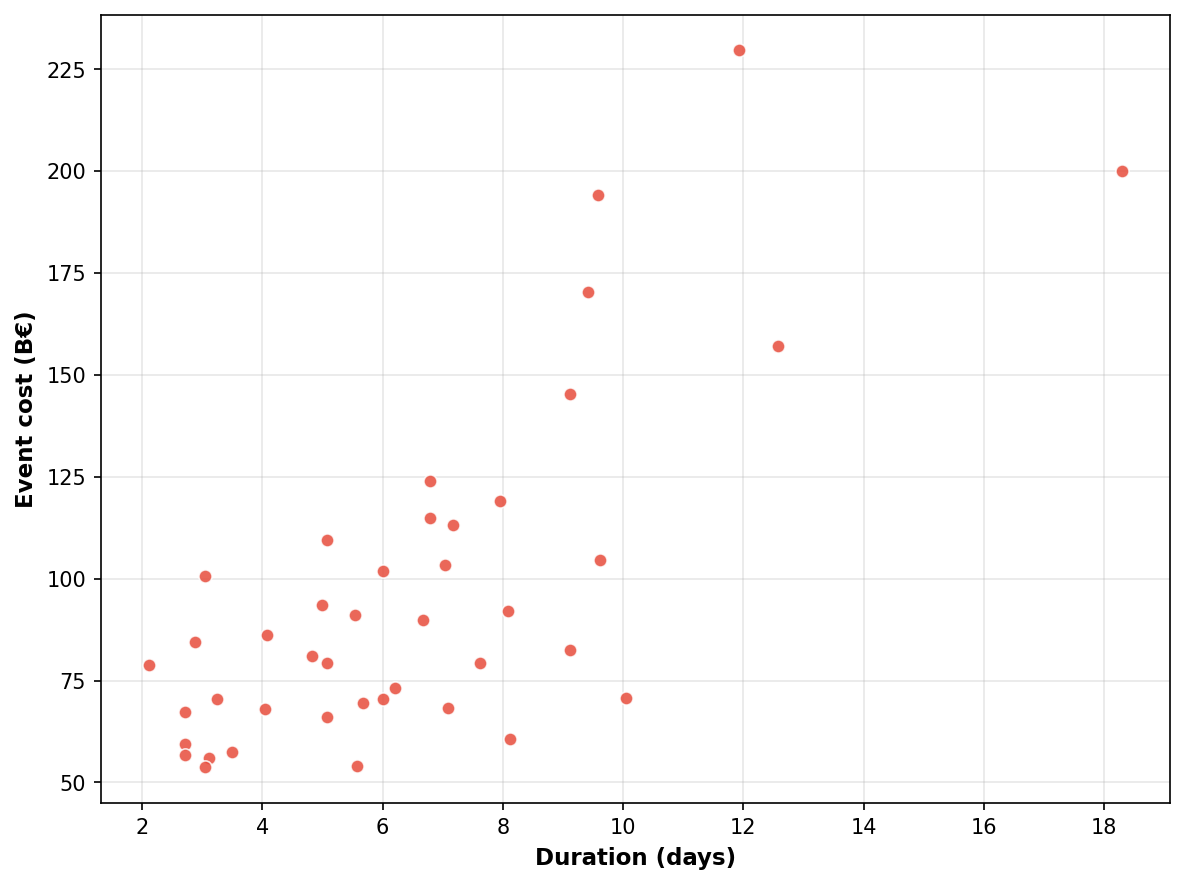
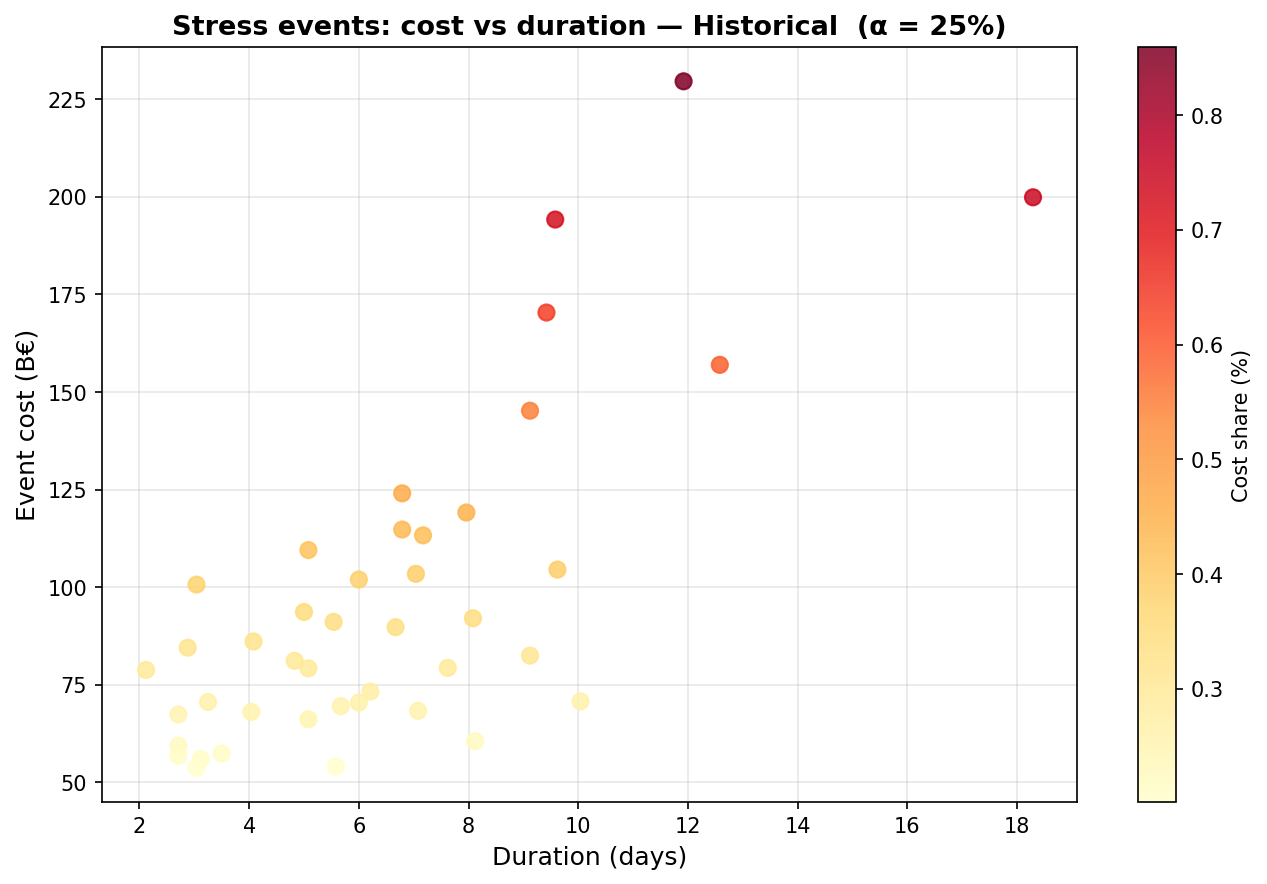
Add plot_ratio_analysis, plot_cost_duration_scatter, combined filter scatter; remove orphaned ratio_analysis.png

diff --git a/analysis/codigos/compute/plot_ratio_analysis.py b/analysis/codigos/compute/plot_ratio_analysis.py
@@ -1,0 +1,126 @@
+"""
+Ratio Analysis — Static PNGs
+==============================
+Generates one PNG per dataset showing how the intensity ratio
+ρ = cost_share / duration (% per day) evolves across α thresholds for the
+top-10 most persistent stress events. Mirrors the content of ratio_analysis.html.
+
+An event is "persistent" if it appears in the top-10 by cost_share_cross
+across the most α thresholds. Events are identified by (sc, t_start, t_end).
+
+Inputs:
+  CSVs/future/events_global_alpha/events_global_alpha{10..40}.csv
+  CSVs/historical/events_global_alpha/events_global_historical_alpha{10..40}.csv
+
+Outputs:
+  analysis/fotos/future/ratio_analysis_future.png
+  analysis/fotos/historical/ratio_analysis_historical.png
+"""
+
+# ── Configuration ─────────────────────────────────────────────────────────────
+ALPHAS  = [10, 15, 20, 25, 30, 35, 40]
+TOP_N   = 10
+OUT_DIR = '~/Desktop/Bachelor Thesis/analysis/fotos'
+DATASETS = {
+    'future': {
+        'label': 'Future',
+        'csv': lambda a: f'~/Desktop/Bachelor Thesis/CSVs/future/events_global_alpha/events_global_alpha{a:02d}.csv',
+    },
+    'historical': {
+        'label': 'Historical',
+        'csv': lambda a: f'~/Desktop/Bachelor Thesis/CSVs/historical/events_global_alpha/events_global_historical_alpha{a:02d}.csv',
+    },
+}
+COLORS = ['#3498db','#e74c3c','#2ecc71','#9b59b6','#f39c12',
+          '#1abc9c','#e67e22','#34495e','#e91e63','#00bcd4']
+# ──────────────────────────────────────────────────────────────────────────────
+
+import os
+import numpy as np
+import pandas as pd
+import matplotlib
+matplotlib.use('Agg')
+import matplotlib.pyplot as plt
+
+OUT_DIR = os.path.expanduser(OUT_DIR)
+
+
+def load_dfs(cfg):
+    return {a: pd.read_csv(os.path.expanduser(cfg['csv'](a))) for a in ALPHAS}
+
+
+def find_persistent(dfs):
+    top_per = {a: dfs[a].nlargest(TOP_N, 'cost_share_cross') for a in ALPHAS}
+    pool = []
+    for alpha in ALPHAS:
+        for _, row in top_per[alpha].iterrows():
+            sc, ts, te = int(row['sc']), int(row['t_start']), int(row['t_end'])
+            if not any(e['sc'] == sc and
+                       ((e['ts'] <= ts and e['te'] >= te) or
+                        (ts <= e['ts'] and te >= e['te']))
+                       for e in pool):
+                pool.append({'sc': sc, 'ts': ts, 'te': te})
+    for ev in pool:
+        ev['persistence'] = sum(
+            1 for a in ALPHAS
+            if len(top_per[a][(top_per[a]['sc'] == ev['sc']) &
+                               (top_per[a]['t_start'] <= ev['ts']) &
+                               (top_per[a]['t_end']   >= ev['te'])]) > 0
+        )
+    pool.sort(key=lambda x: x['persistence'], reverse=True)
+    return pool[:TOP_N]
+
+
+def compute_rho(pool, dfs):
+    events = []
+    for ev in pool:
+        sc, ts0, te0 = ev['sc'], ev['ts'], ev['te']
+        rho_vals = []
+        for a in ALPHAS:
+            m = dfs[a][(dfs[a]['sc'] == sc) &
+                       (dfs[a]['t_start'] <= te0) &
+                       (dfs[a]['t_end']   >= ts0)]
+            if len(m) > 0:
+                cs  = float(m.iloc[0]['cost_share_cross'])
+                dur = float(m.iloc[0]['duration_days'])
+                rho_vals.append(cs / dur if dur > 0 else np.nan)
+            else:
+                rho_vals.append(np.nan)
+        events.append({'label': f'sc{sc}', 'rho': rho_vals,
+                       'persistence': ev['persistence']})
+    return events
+
+
+for ds_key, cfg in DATASETS.items():
+    dfs    = load_dfs(cfg)
+    pool   = find_persistent(dfs)
+    events = compute_rho(pool, dfs)
+
+    fig, ax = plt.subplots(figsize=(10, 6))
+
+    for i, ev in enumerate(events):
+        rho = ev['rho']
+        valid = [(a, r) for a, r in zip(ALPHAS, rho) if not np.isnan(r)]
+        if not valid:
+            continue
+        xs, ys = zip(*valid)
+        ax.plot(xs, ys, marker='o', color=COLORS[i % len(COLORS)],
+                linewidth=2, markersize=6,
+                label=f'{ev["label"]}  (persist={ev["persistence"]})')
+
+    ax.set_xlabel('α threshold (%)', fontsize=12)
+    ax.set_ylabel('ρ = cost share / duration  (% per day)', fontsize=12)
+    ax.set_title(f'Intensity ratio ρ vs α — {cfg["label"]}', fontsize=13,
+                 fontweight='bold')
+    ax.set_xticks(ALPHAS)
+    ax.grid(True, alpha=0.3)
+    ax.legend(fontsize=9, frameon=True, loc='upper right',
+              ncol=2 if len(events) > 6 else 1)
+
+    fig.tight_layout()
+    out = os.path.join(OUT_DIR, ds_key, f'ratio_analysis_{ds_key}.png')
+    fig.savefig(out, dpi=150, bbox_inches='tight')
+    plt.close()
+    print(f'Saved: {out}')
+
+print('\nDone.')

diff --git a/analysis/codigos/compute/plot_cost_duration_scatter.py b/analysis/codigos/compute/plot_cost_duration_scatter.py
@@ -1,0 +1,71 @@
+"""
+Cost vs Duration Scatter — Static PNGs per Dataset
+====================================================
+Generates one scatter plot per dataset showing event_cost vs duration_days
+for all stress events passing the standard quality filters at α = 25%.
+Points are colored by cost_share_cross (%).
+
+Inputs:
+  CSVs/future/events_global_alpha/events_global_alpha25.csv
+  CSVs/historical/events_global_alpha/events_global_historical_alpha25.csv
+
+Outputs:
+  analysis/fotos/future/scatter_plots/cost_duration_scatter_future.png
+  analysis/fotos/historical/scatter_plots/cost_duration_scatter_historical.png
+"""
+
+# ── Configuration ─────────────────────────────────────────────────────────────
+THRESH_CS  = 0.2
+THRESH_DUR = 1.0
+OUT_DIR    = '~/Desktop/Bachelor Thesis/analysis/fotos'
+DATASETS = {
+    'future': {
+        'label': 'Future',
+        'csv':   '~/Desktop/Bachelor Thesis/CSVs/future/events_global_alpha/events_global_alpha25.csv',
+        'color': '#3498db',
+    },
+    'historical': {
+        'label': 'Historical',
+        'csv':   '~/Desktop/Bachelor Thesis/CSVs/historical/events_global_alpha/events_global_historical_alpha25.csv',
+        'color': '#e74c3c',
+    },
+}
+# ──────────────────────────────────────────────────────────────────────────────
+
+import os
+import pandas as pd
+import matplotlib
+matplotlib.use('Agg')
+import matplotlib.pyplot as plt
+import matplotlib.colors as mcolors
+
+OUT_DIR = os.path.expanduser(OUT_DIR)
+
+for ds_key, cfg in DATASETS.items():
+    df = pd.read_csv(os.path.expanduser(cfg['csv']))
+    df = df[(df['cost_share_cross'] >= THRESH_CS) & (df['duration_days'] >= THRESH_DUR)]
+
+    fig, ax = plt.subplots(figsize=(9, 6))
+
+    sc = ax.scatter(df['duration_days'], df['event_cost'] / 1e3,
+                    c=df['cost_share_cross'], cmap='YlOrRd',
+                    s=60, alpha=0.85, zorder=3,
+                    norm=mcolors.Normalize(vmin=df['cost_share_cross'].min(),
+                                           vmax=df['cost_share_cross'].max()))
+    cb = fig.colorbar(sc, ax=ax)
+    cb.set_label('Cost share (%)', fontsize=10)
+
+    ax.set_xlabel('Duration (days)', fontsize=12)
+    ax.set_ylabel('Event cost (B€)', fontsize=12)
+    ax.set_title(f'Stress events: cost vs duration — {cfg["label"]}  (α = 25%)',
+                 fontsize=13, fontweight='bold')
+    ax.grid(True, alpha=0.3)
+
+    fig.tight_layout()
+    out = os.path.join(OUT_DIR, ds_key, 'scatter_plots',
+                       f'cost_duration_scatter_{ds_key}.png')
+    fig.savefig(out, dpi=150, bbox_inches='tight')
+    plt.close()
+    print(f'Saved: {out}')
+
+print('\nDone.')

diff --git a/analysis/codigos/compute/plot_filter_scatter.py b/analysis/codigos/compute/plot_filter_scatter.py
@@ -14,7 +14,9 @@ Inputs:
 
 Outputs:
   htmls/fotos/future/scatter_plots/filter_scatter_future_alpha{XX}.png      (7 PNGs)
+  htmls/fotos/future/scatter_plots/filter_scatter_future.png                (1 combined grid)
   htmls/fotos/historical/scatter_plots/filter_scatter_historical_alpha{XX}.png  (7 PNGs)
+  htmls/fotos/historical/scatter_plots/filter_scatter_historical.png             (1 combined grid)
 """
 
 # ── Configuration ─────────────────────────────────────────────────────────────
@@ -91,5 +93,39 @@ for ds_name, paths in DATASETS.items():
         fig.savefig(out, dpi=150, bbox_inches='tight')
         plt.close()
         print(f'Saved: {out}')
+
+# ── Combined grid: all α values in one figure per dataset ────────────────────
+for ds_name, paths in DATASETS.items():
+    fig, axes = plt.subplots(2, 4, figsize=(20, 10))
+    axes_flat = axes.ravel()
+
+    for i, alpha in enumerate(ALPHAS):
+        ax = axes_flat[i]
+        df = pd.read_csv(paths[alpha])
+        passed = (df['cost_share_cross'] >= THRESH_CS) & (df['duration_days'] >= THRESH_DUR)
+        pct = passed.sum() / len(df) * 100
+
+        ax.scatter(df.loc[~passed, 'duration_days'], df.loc[~passed, 'cost_share_cross'],
+                   color=COLOR_FAIL, s=12, alpha=0.7, zorder=2)
+        ax.scatter(df.loc[passed,  'duration_days'], df.loc[passed,  'cost_share_cross'],
+                   color=COLOR_PASS, s=12, alpha=0.9, zorder=3)
+        ax.axvline(THRESH_DUR, color='firebrick', linewidth=1.2, linestyle='--')
+        ax.axhline(THRESH_CS,  color='steelblue', linewidth=1.2, linestyle='--')
+        ax.set_title(f'α = {alpha}%', fontsize=11, fontweight='bold')
+        ax.set_xlabel('Duration (days)', fontsize=9)
+        ax.set_ylabel('Cost share (%)', fontsize=9)
+        ax.text(0.97, 0.97, f'{passed.sum()}/{len(df)}\n({pct:.1f}%)',
+                transform=ax.transAxes, ha='right', va='top', fontsize=9,
+                bbox=dict(boxstyle='round,pad=0.2', facecolor='white',
+                          edgecolor='black', alpha=0.8))
+        ax.grid(True, alpha=0.3)
+
+    axes_flat[-1].set_visible(False)  # hide 8th cell (only 7 alphas)
+    fig.suptitle(f'Filter scatter — {ds_name} (all α)', fontsize=14, fontweight='bold')
+    fig.tight_layout()
+    out = os.path.join(OUT_DIR, ds_name, 'scatter_plots', f'filter_scatter_{ds_name}.png')
+    fig.savefig(out, dpi=150, bbox_inches='tight')
+    plt.close()
+    print(f'Saved: {out}')
 
 print('Done.')
